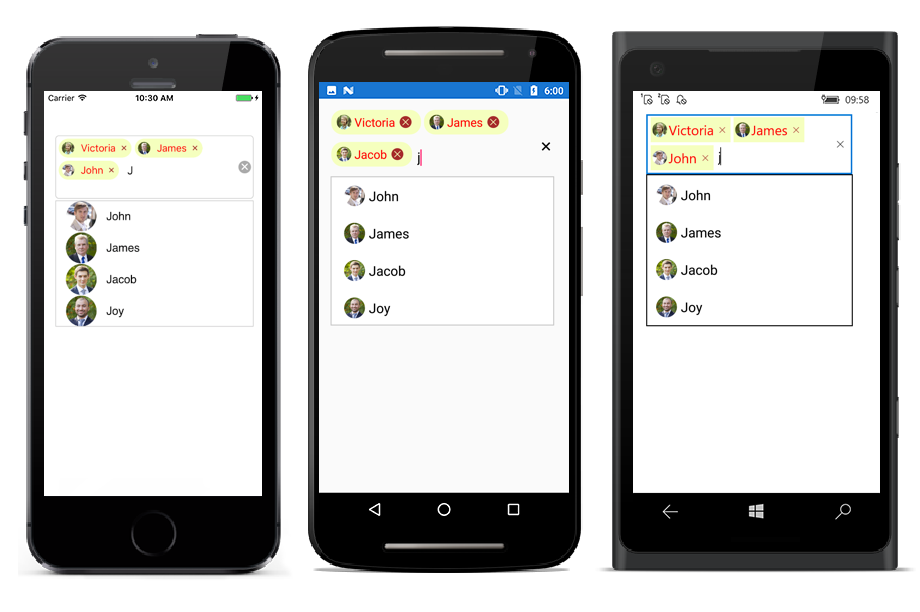
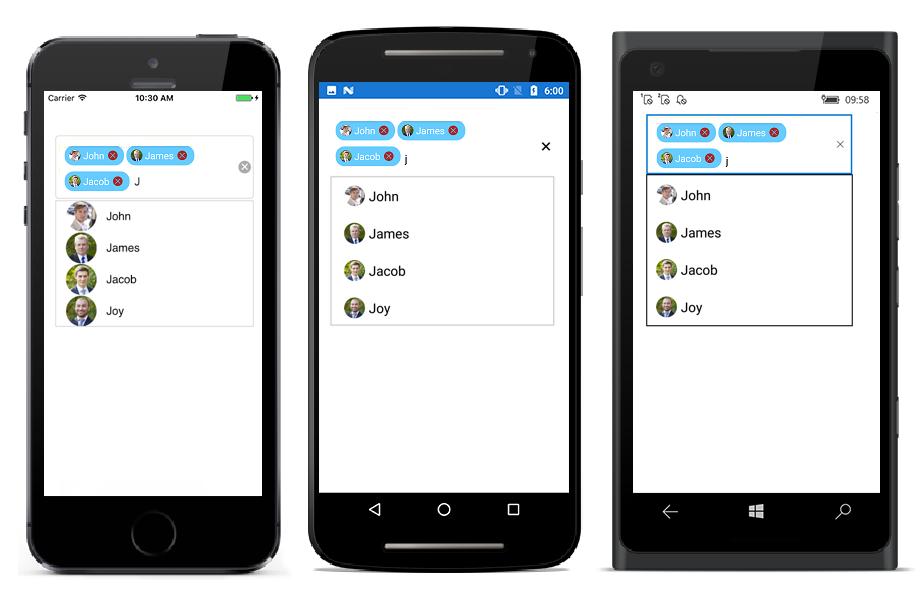
[XForms] AutoComplete_UGCorrections

Changed region(s): [[0.3348, 0.1552, 0.5783, 0.2794], [0.7, 0.1863, 0.8826, 0.2794], [0.0609, 0.2173, 0.2435, 0.3105]]

diff --git a/xamarin-toc.html b/xamarin-toc.html
@@ -37,8 +37,9 @@
             <li><a href="/xamarin/sfautocomplete/diacritic-sensitivity">Diacritic Sensitivity</a></li>
             <li><a href="/xamarin/sfautocomplete/header-and-footer">Header and Footer</a></li>
             <li><a href="/xamarin/sfautocomplete/highlighting-matched-text">Highlighting matched text</a></li>
-                   <li><a href="/xamarin/sfautocomplete/maximum-display-item-with-expander">Maximum display item with Expander</a></li>
-                          <li><a href="/xamarin/sfautocomplete/multiple-selection">Multiple selection</a></li>
+            <li><a href="/xamarin/sfautocomplete/maximum-display-item-with-expander">Maximum display item with Expander</a></li>
+            <li><a href="/xamarin/sfautocomplete/no-result-found">No Result Found</a></li>
+            <li><a href="/xamarin/sfautocomplete/multiple-selection">Multiple selection</a></li>
             <li><a href="/xamarin/sfautocomplete/autocomplete-modes">AutoComplete Modes</a></li>
             <li><a href="/xamarin/sfautocomplete/autocomplete-filtering-options">AutoComplete Filtering Options</a></li>
             <li><a href="/xamarin/sfautocomplete/retrieving-selected-values">Retrieving Selected Values</a></li>

diff --git a/Xamarin/SfAutoComplete/No-Result-Found.md b/Xamarin/SfAutoComplete/No-Result-Found.md
@@ -1,0 +1,32 @@
+---
+layout: post
+title: No Result Found Text in Syncfusion SfAutoComplete control for Xamarin.Forms
+description: Learn how to display the no result found text in SfAutoComplete
+platform: xamarin
+control: SfAutoComplete
+documentation: ug
+---
+# No Results Found
+
+When the entered item is not in the suggestion list, SfAutoComplete displays a text indicating there is no search results found. We can set the desire text to be displayed for indicating no results found with the `NoResultsFoundText` property.
+
+{% tabs %}
+
+{% highlight xaml %}
+
+<StackLayout VerticalOptions="Start" HorizontalOptions="Start" Padding="30">
+	<autocomplete:SfAutoComplete HeightRequest="40" x:Name="autoComplete" NoResultsFoundText="No Results Found" />                    
+</StackLayout> 
+
+{% endhighlight %}
+
+{% highlight c# %}
+
+autoComplete.NoResultsFoundText="No Results Found";
+autoComplete.DataSource = countryNames;
+
+{% endhighlight %}
+
+{% endtabs %}
+
+![](images/Maximum-display-item-with-Expander/NoResultsFound.png)

diff --git a/Xamarin/SfAutoComplete/Multiple-selection.md b/Xamarin/SfAutoComplete/Multiple-selection.md
@@ -197,8 +197,8 @@ Customization can be done for Token. There are various ways to customize the tok
 
 TokenSettings token = new TokenSettings();
 token.FontSize = 16;
-token.BackgroundColor = Color.FromHex("#f5ffbe");
-token.TextColor = Color.Red;
+token.BackgroundColor = Color.FromHex("#66ccff");
+token.TextColor = Color.White;
 token.SelectedBackgroundColor = Color.FromHex("#ffffe0");
 token.DeleteButtonColor = Color.Brown;
 token.FontFamily= "Times New Roman";
